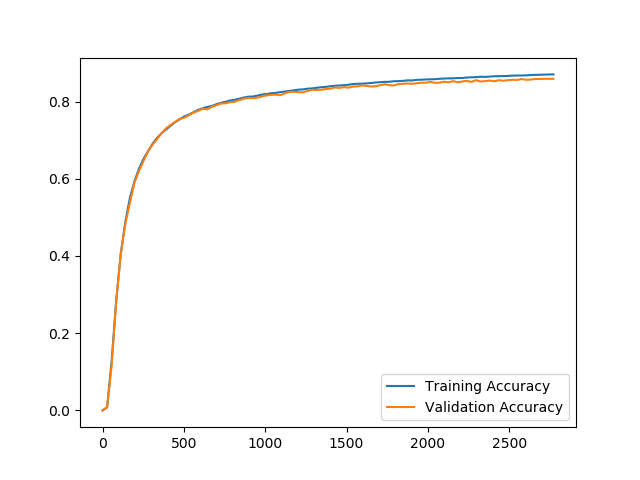
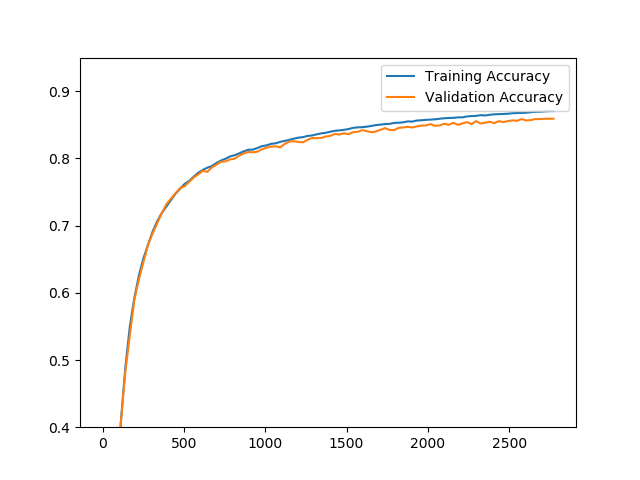
finnished

diff --git a/TDT4265-StarterCode-master/assignment1/task4.py b/TDT4265-StarterCode-master/assignment1/task4.py
@@ -126,7 +126,7 @@ plt.show()
 
 # Plot accuracy
 plt.figure(1)
-#plt.ylim([0.8, .95])
+plt.ylim([0.4, .95])
 utils.plot_loss(train_accuracy, "Training Accuracy")
 utils.plot_loss(val_accuracy, "Validation Accuracy")
 plt.legend()
